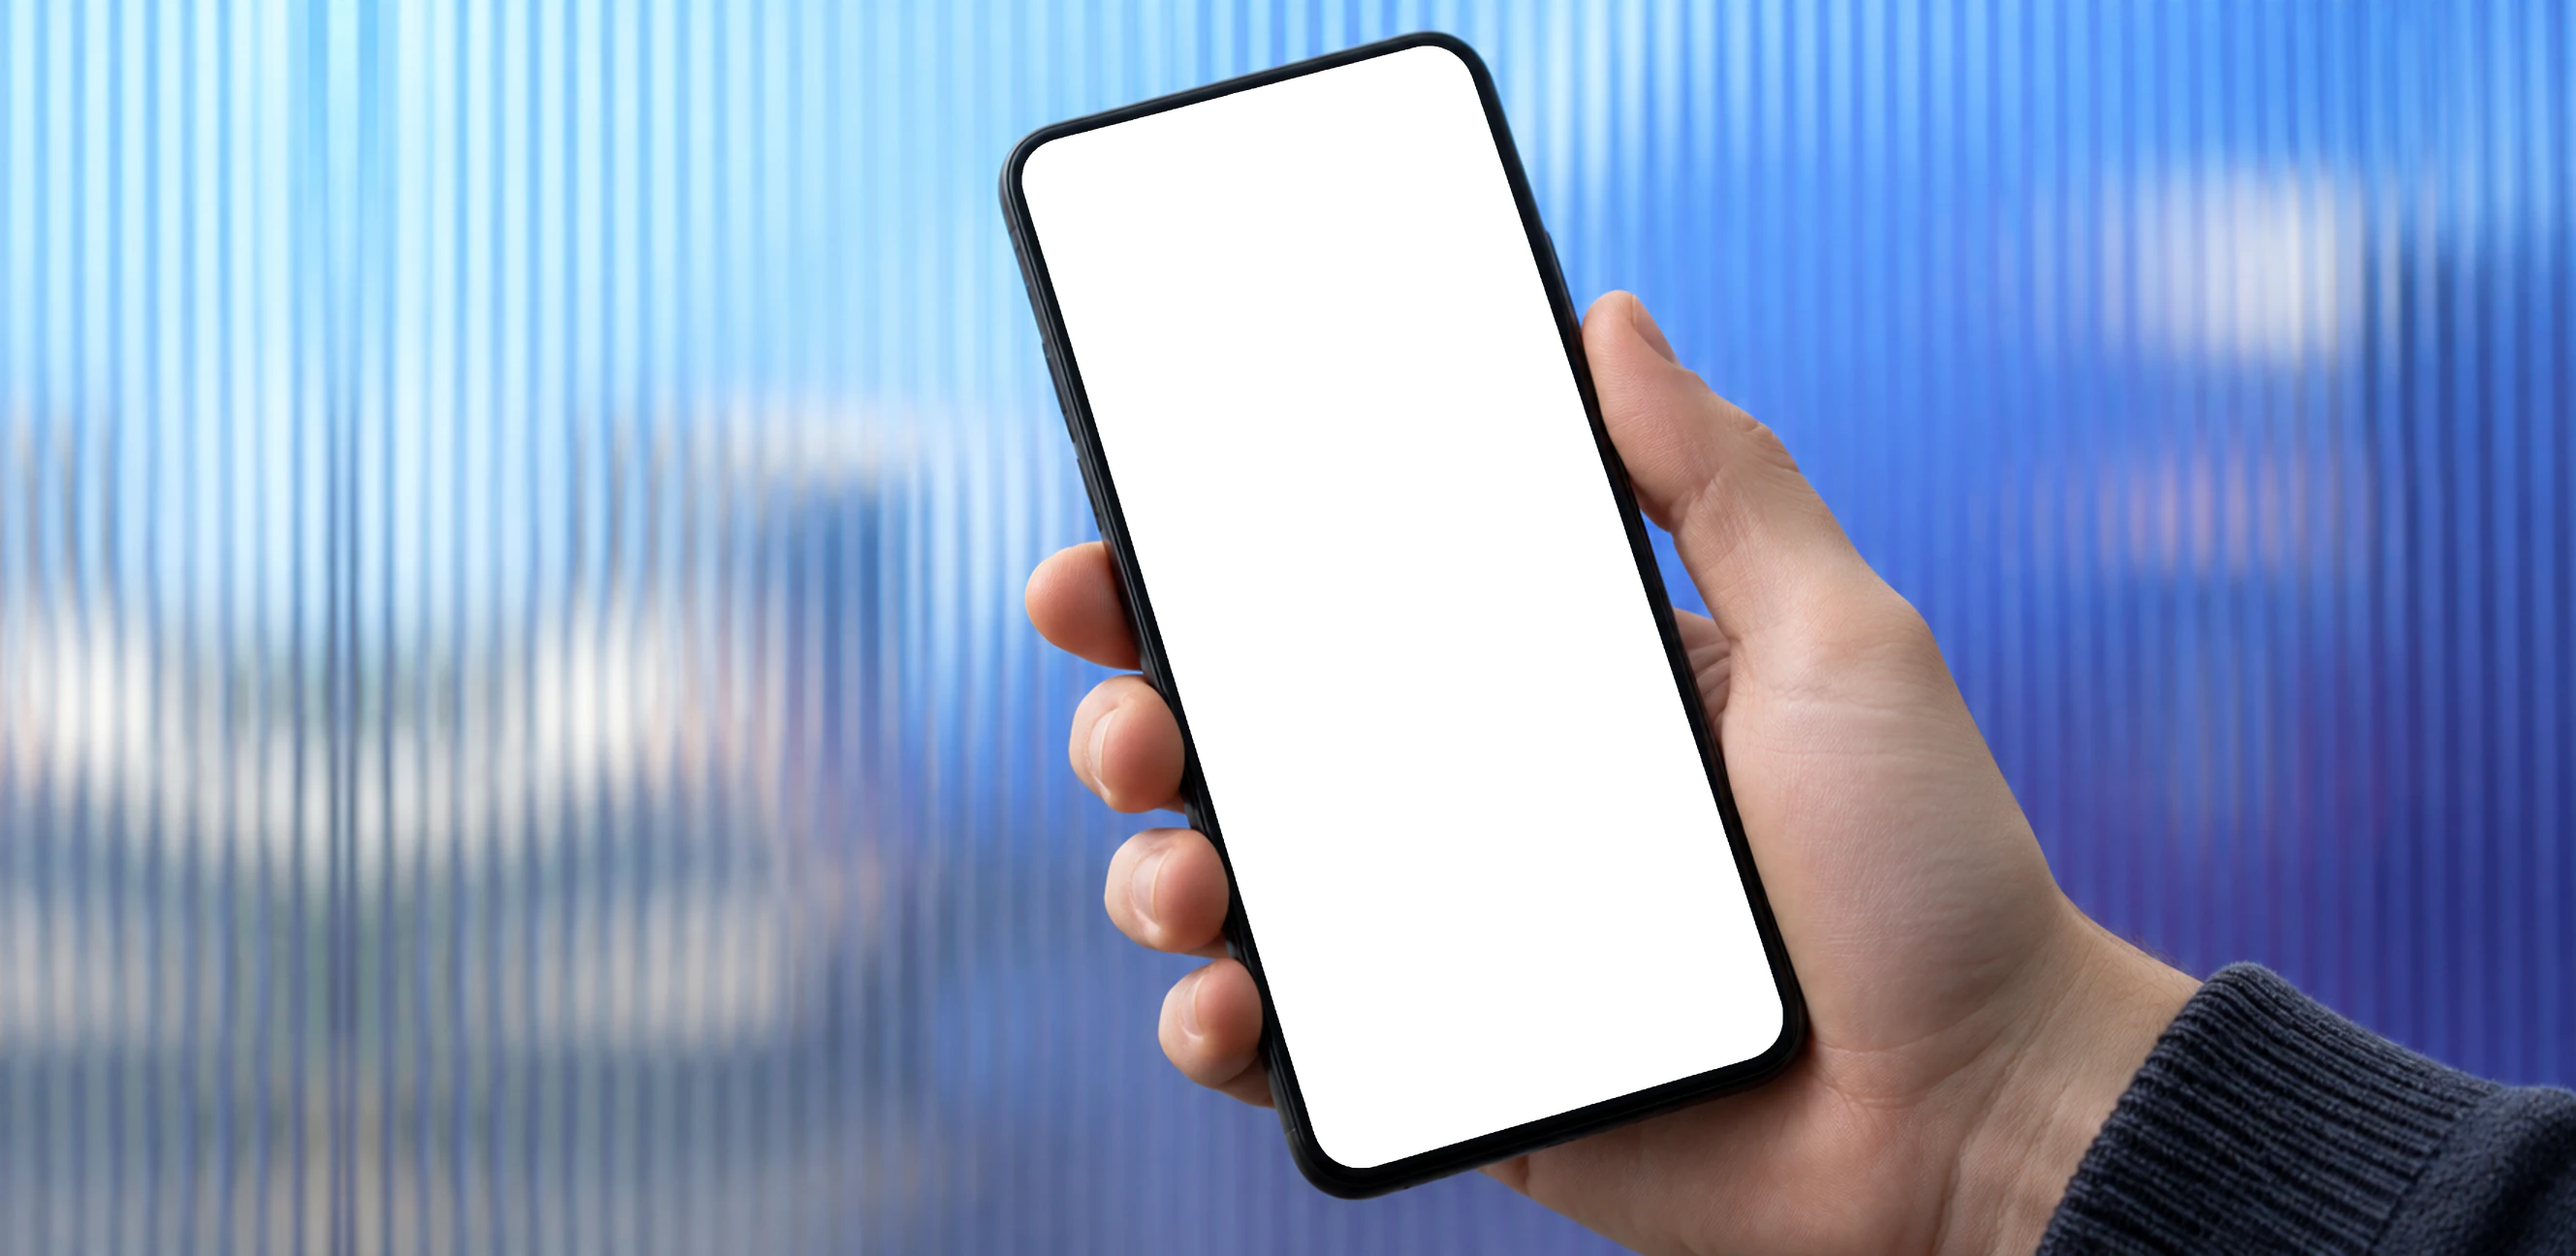
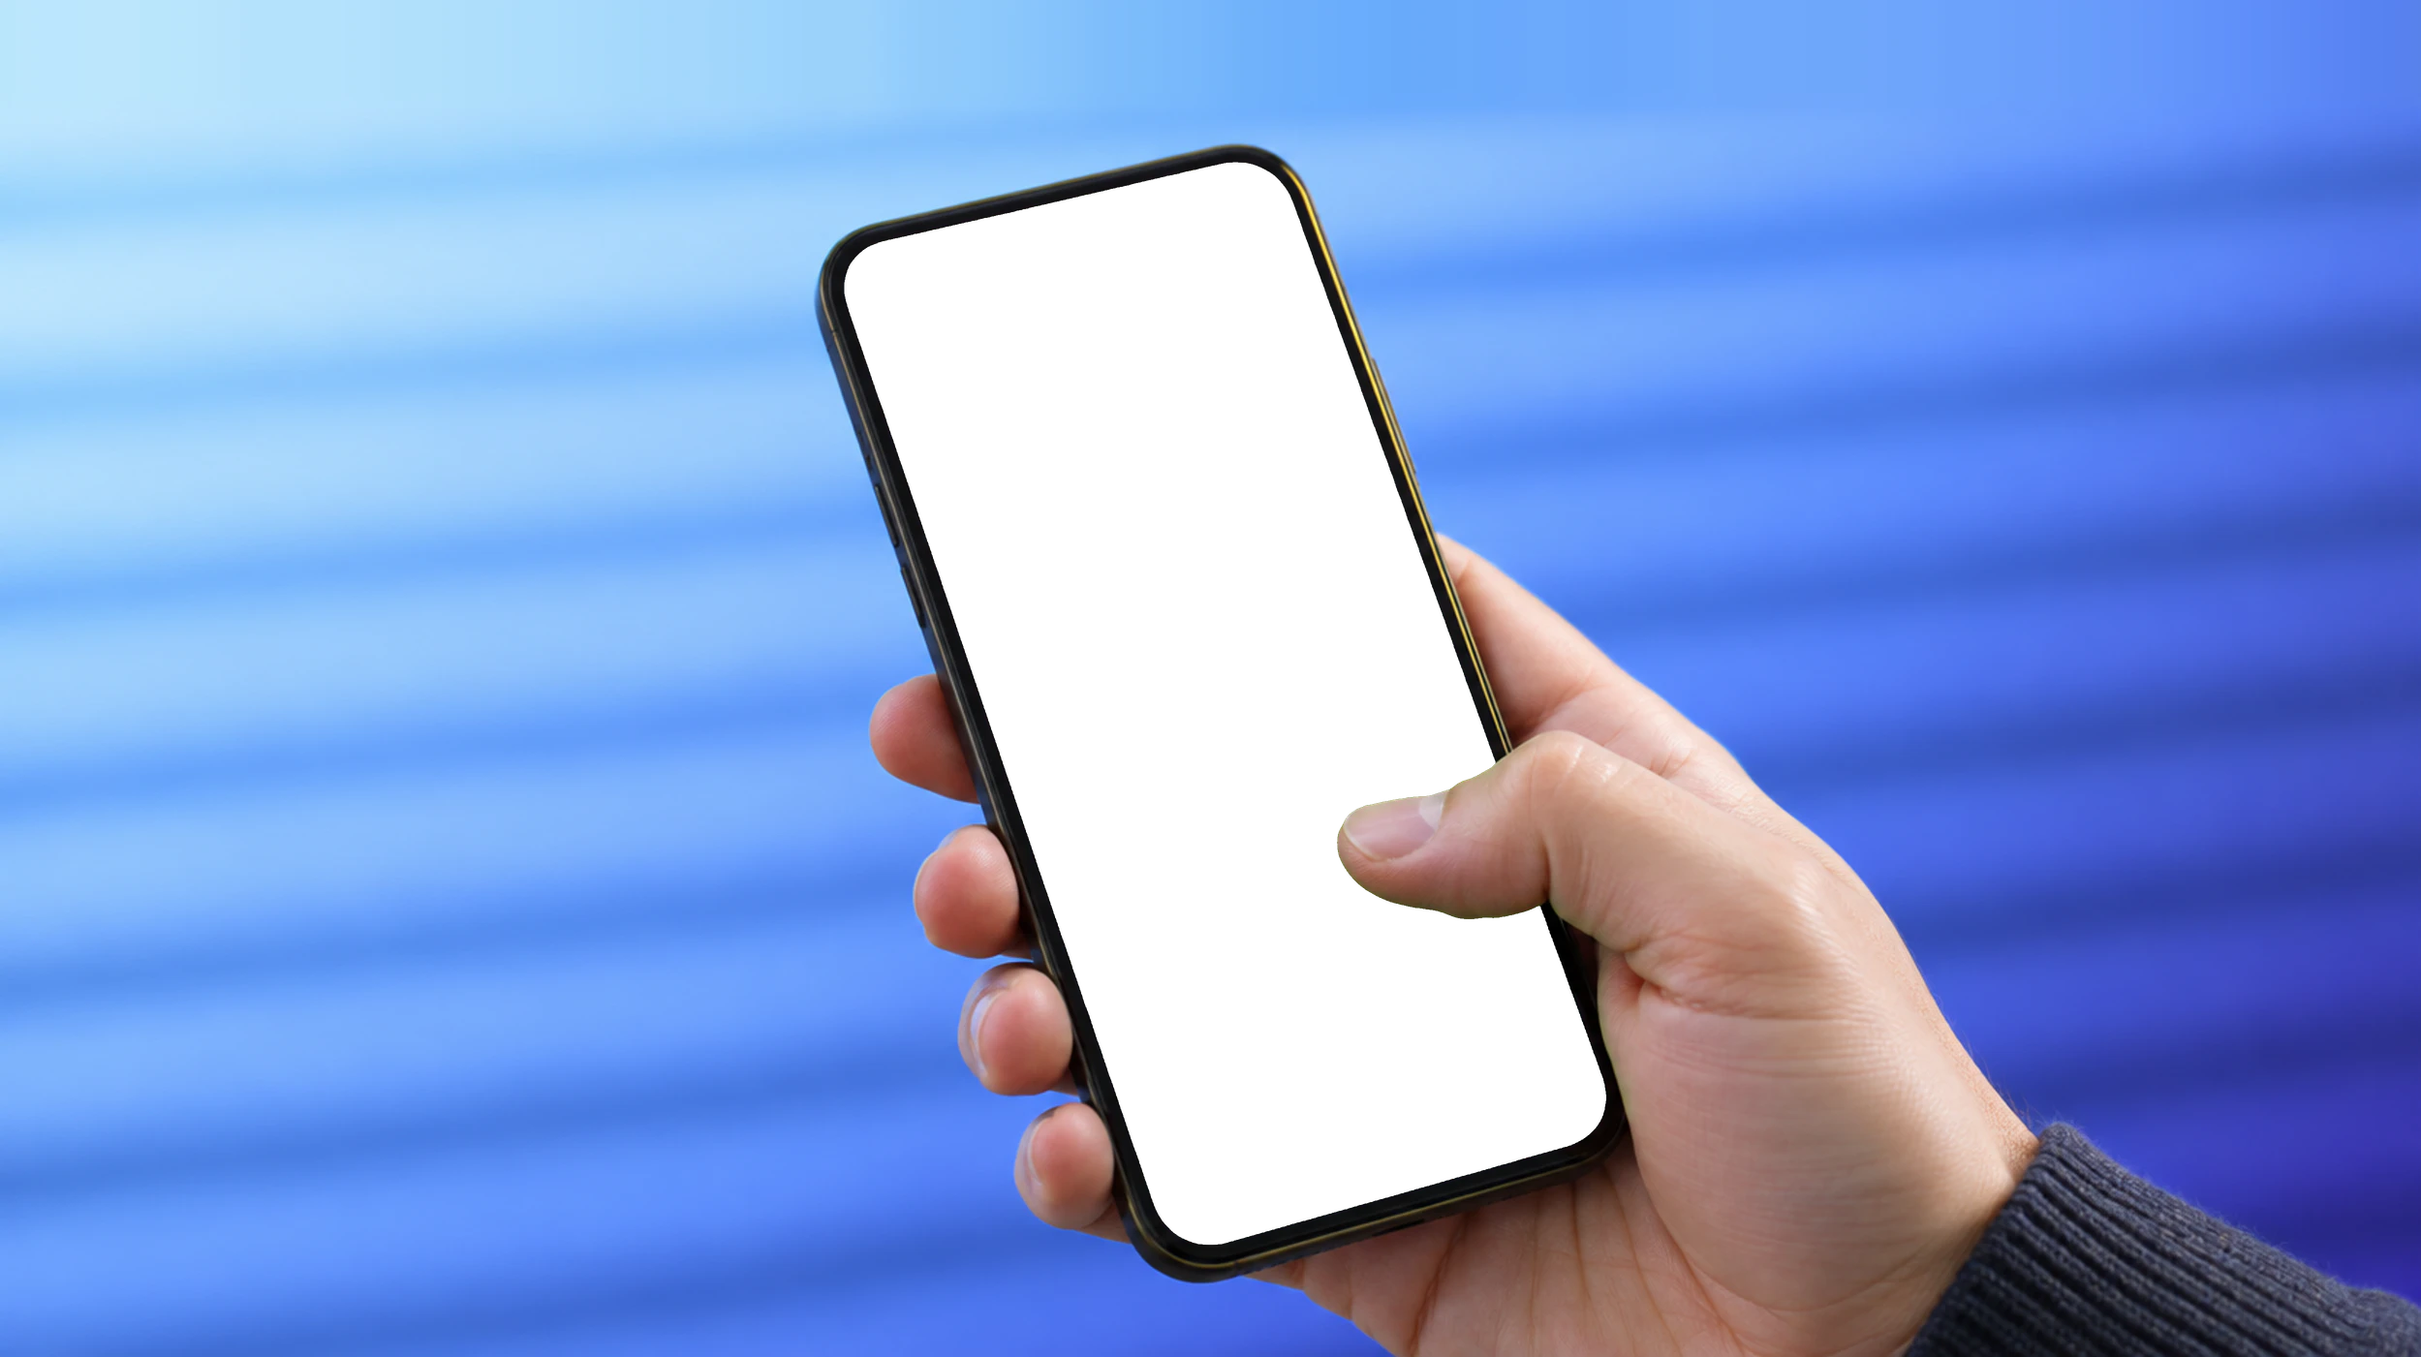
Gemini cover: thumb over the screen, calm blinds backdrop, room around the phone

diff --git a/app/globals.css b/app/globals.css
@@ -8069,8 +8069,8 @@ html[data-about-entering] .home-stage :is(.intro-surface, [class*="home-world-"]
 
 /* The Gemini screen sits in the photo: slightly below paper white, with a soft glare and a little shade under the bezel. */
 .dh-shot-media:has(.dh-clip), .home-device[data-project="gemini-privacy"] .dh-shot-media { isolation: isolate; }
-:is(.devsign-hero.dh-cover[data-project="gemini-privacy"], .home-device[data-project="gemini-privacy"], .project-zoom[data-project="gemini-privacy"]) .dh-shot-media::after { content: ""; position: absolute; inset: 0; z-index: 2; pointer-events: none; background: linear-gradient(118deg, rgb(255 255 255 / 0.13) 0%, rgb(255 255 255 / 0.04) 26%, transparent 42%), linear-gradient(to top, rgb(10 16 40 / 0.1), transparent 22%); box-shadow: inset 0 0 26px rgb(8 12 30 / 0.28); }
-:is(.devsign-hero.dh-cover[data-project="gemini-privacy"], .home-device[data-project="gemini-privacy"], .project-zoom[data-project="gemini-privacy"]) :is(.dh-clip video, .dh-shot-poster) { filter: brightness(0.93) contrast(1.03); }
+:is(.devsign-hero.dh-cover[data-project="gemini-privacy"], .home-device[data-project="gemini-privacy"], .project-zoom[data-project="gemini-privacy"]) .dh-shot-media::after { content: ""; position: absolute; inset: 0; z-index: 2; pointer-events: none; background: linear-gradient(118deg, rgb(255 255 255 / 0.1) 0%, rgb(255 255 255 / 0.03) 24%, transparent 42%), linear-gradient(to top, rgb(10 16 40 / 0.1), transparent 22%); box-shadow: inset 0 0 18px rgb(8 12 30 / 0.16); }
+:is(.devsign-hero.dh-cover[data-project="gemini-privacy"], .home-device[data-project="gemini-privacy"], .project-zoom[data-project="gemini-privacy"]) :is(.dh-clip video, .dh-shot-poster) { filter: brightness(0.985) contrast(1.02); }
 /* The case's question, under the project name. */
 .devsign-hero.dh-cover .devsign-hero-question { max-width: 32ch; margin: clamp(20px, 2vw, 32px) 0 0; color: var(--ink); font-size: clamp(24px, 2.5vw, 36px); font-weight: 400; line-height: 1.25; letter-spacing: -0.02em; text-wrap: balance; }
 /* The case's question, under the project name. */

diff --git a/lib/cover-scenes.ts b/lib/cover-scenes.ts
@@ -13,8 +13,8 @@ export const COVER_SCENES: Record<string, CoverScene> = {
   },
   "gemini-privacy": {
     src: "/images/cases/gemini-privacy/cover-hand.webp",
-    width: 1772, height: 864, mediaWidth: 800, mediaHeight: 1734,
-    matrix: "matrix3d(0.399313394, -0.099076807, 0, 0.0000140911643, 0.0984747639, 0.384047689, 0, -0.0000295637161, 0, 0, 1, 0, 695.750504, 103.599083, 0, 1)",
-    crop: [190, 0, 1484, 864], cropPhone: [712, 0, 499, 864], card: [638, 0, 648, 864], cardPhone: [271, 0, 1382, 864],
+    width: 1666, height: 934, mediaWidth: 800, mediaHeight: 1734,
+    matrix: "matrix3d(0.40607944, -0.0853739159, 0, 0.0000269248005, 0.114950928, 0.376466514, 0, -0.0000255890531, 0, 0, 1, 0, 570.766869, 174.52134, 0, 1)",
+    crop: [3, 0, 1605, 934], cropPhone: [568, 0, 540, 934], card: [488, 0, 700, 934], cardPhone: [91, 0, 1494, 934],
   },
 };
